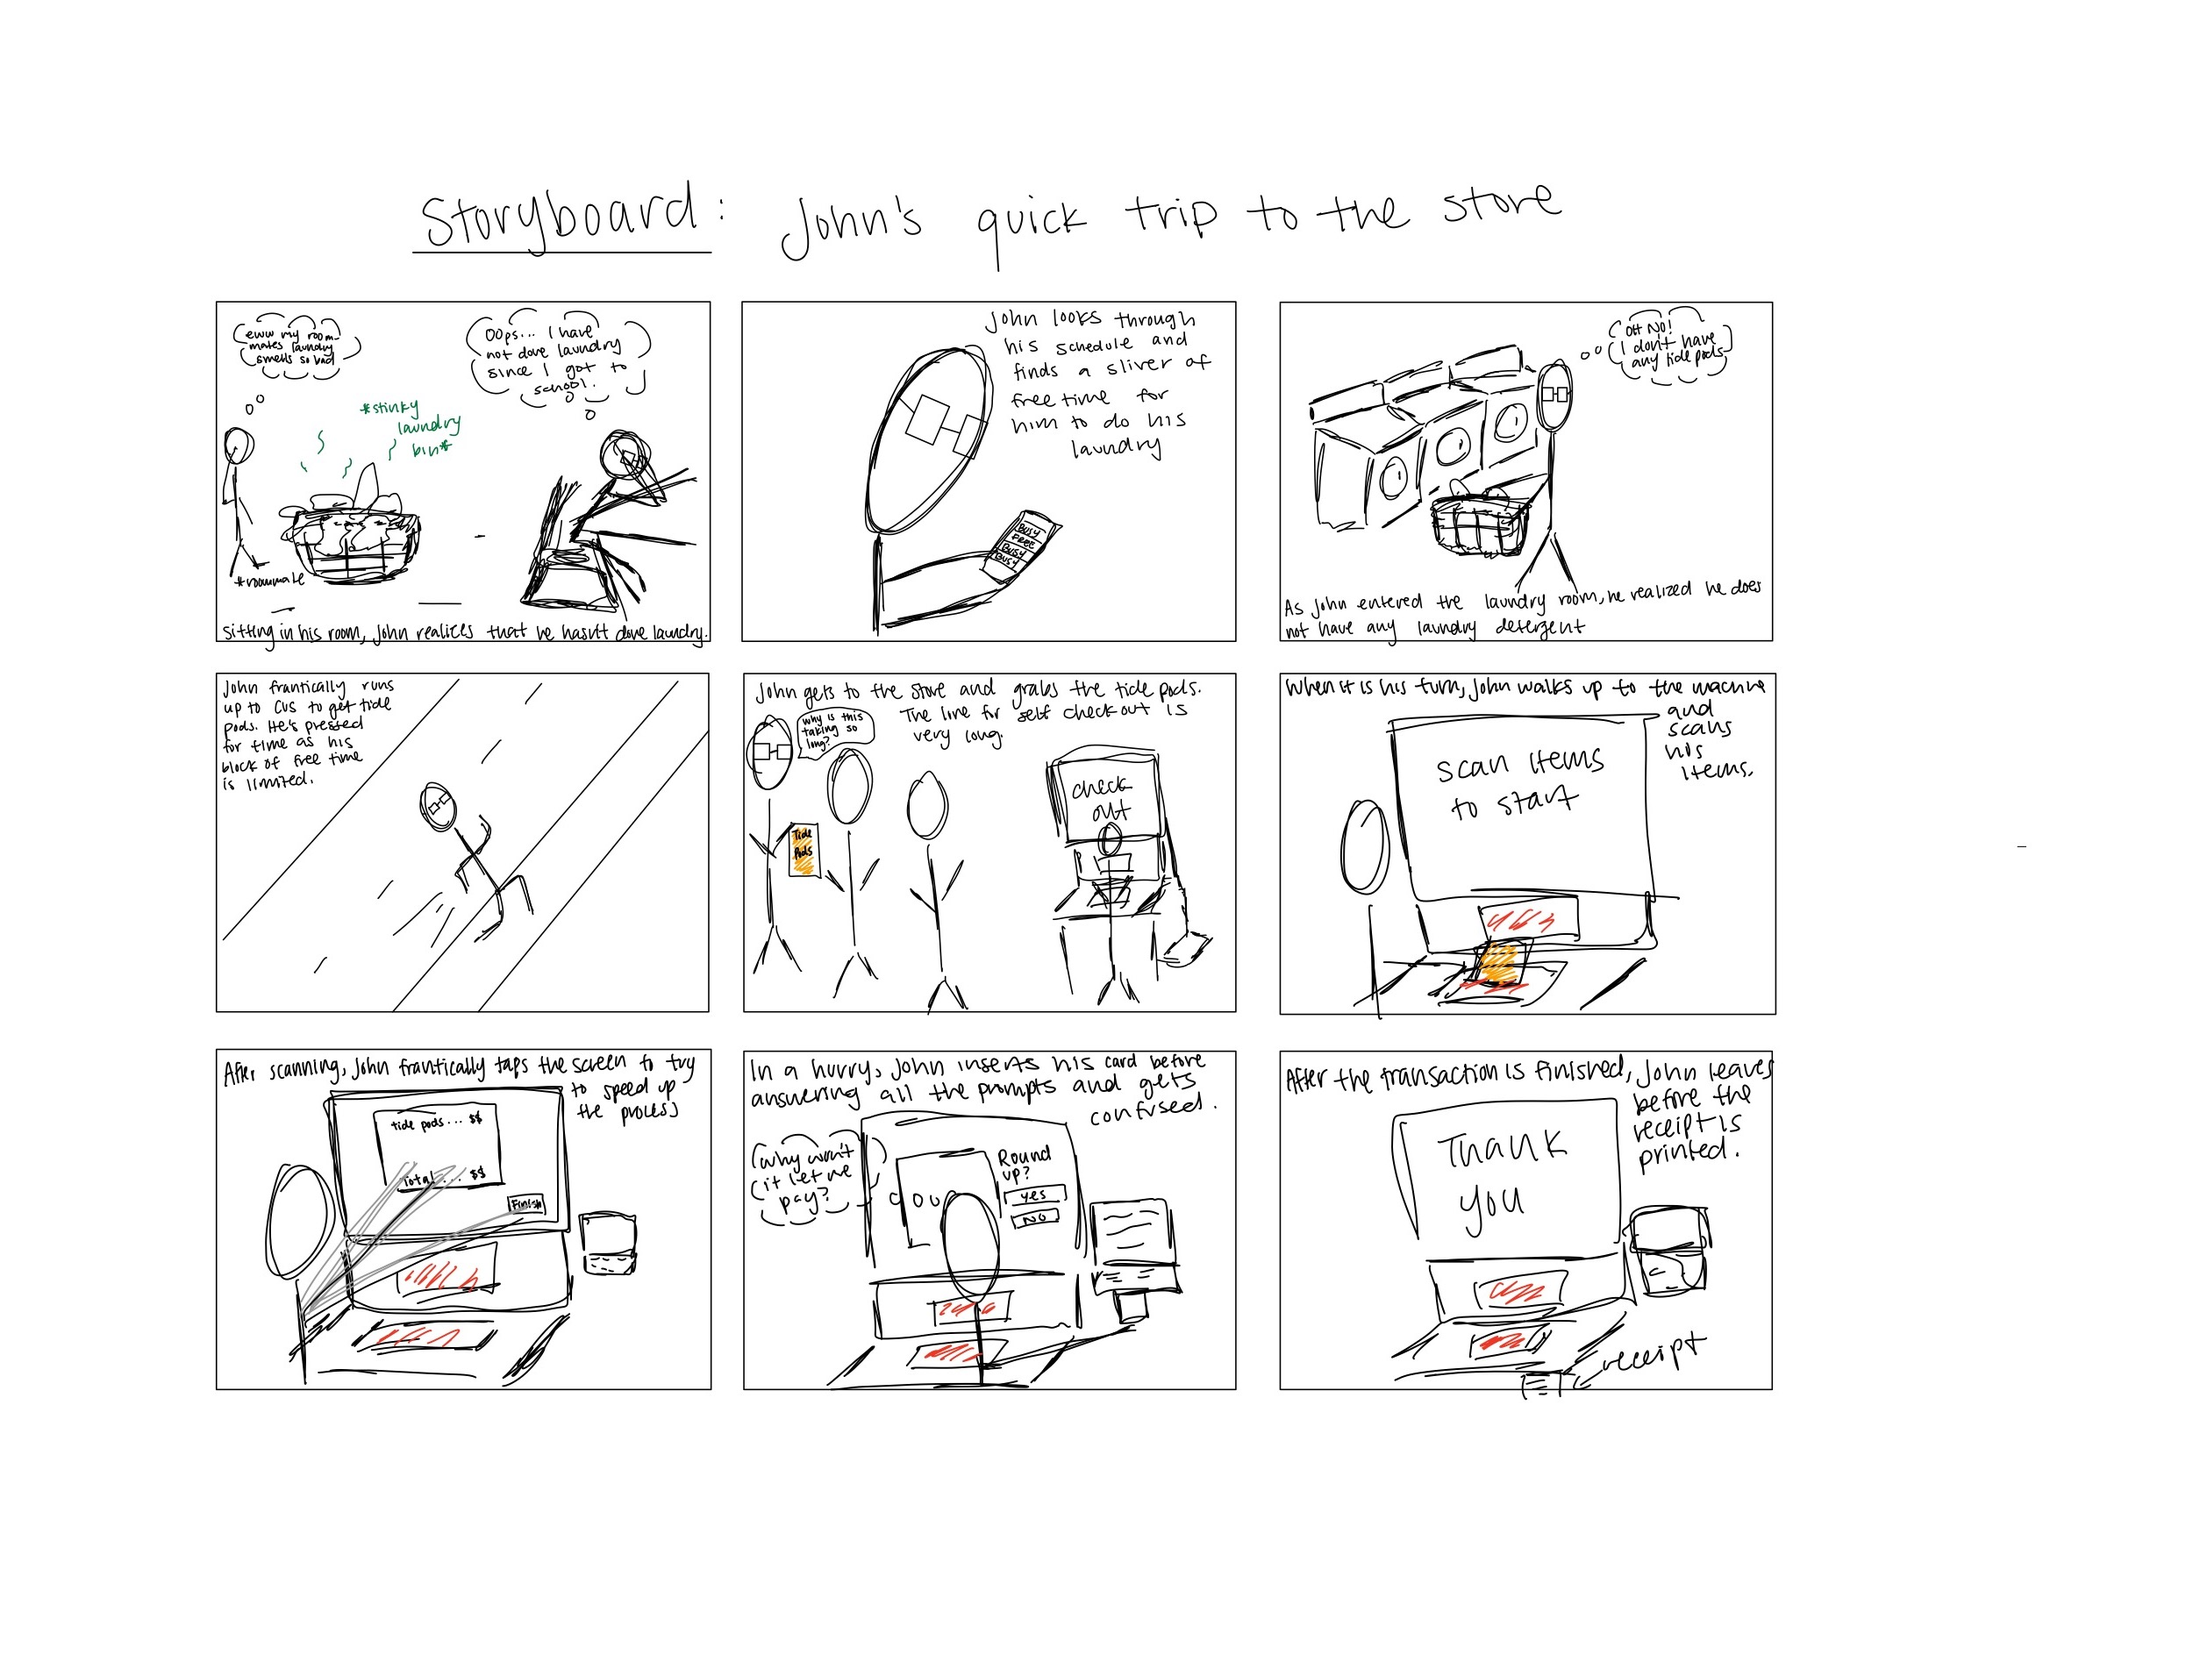
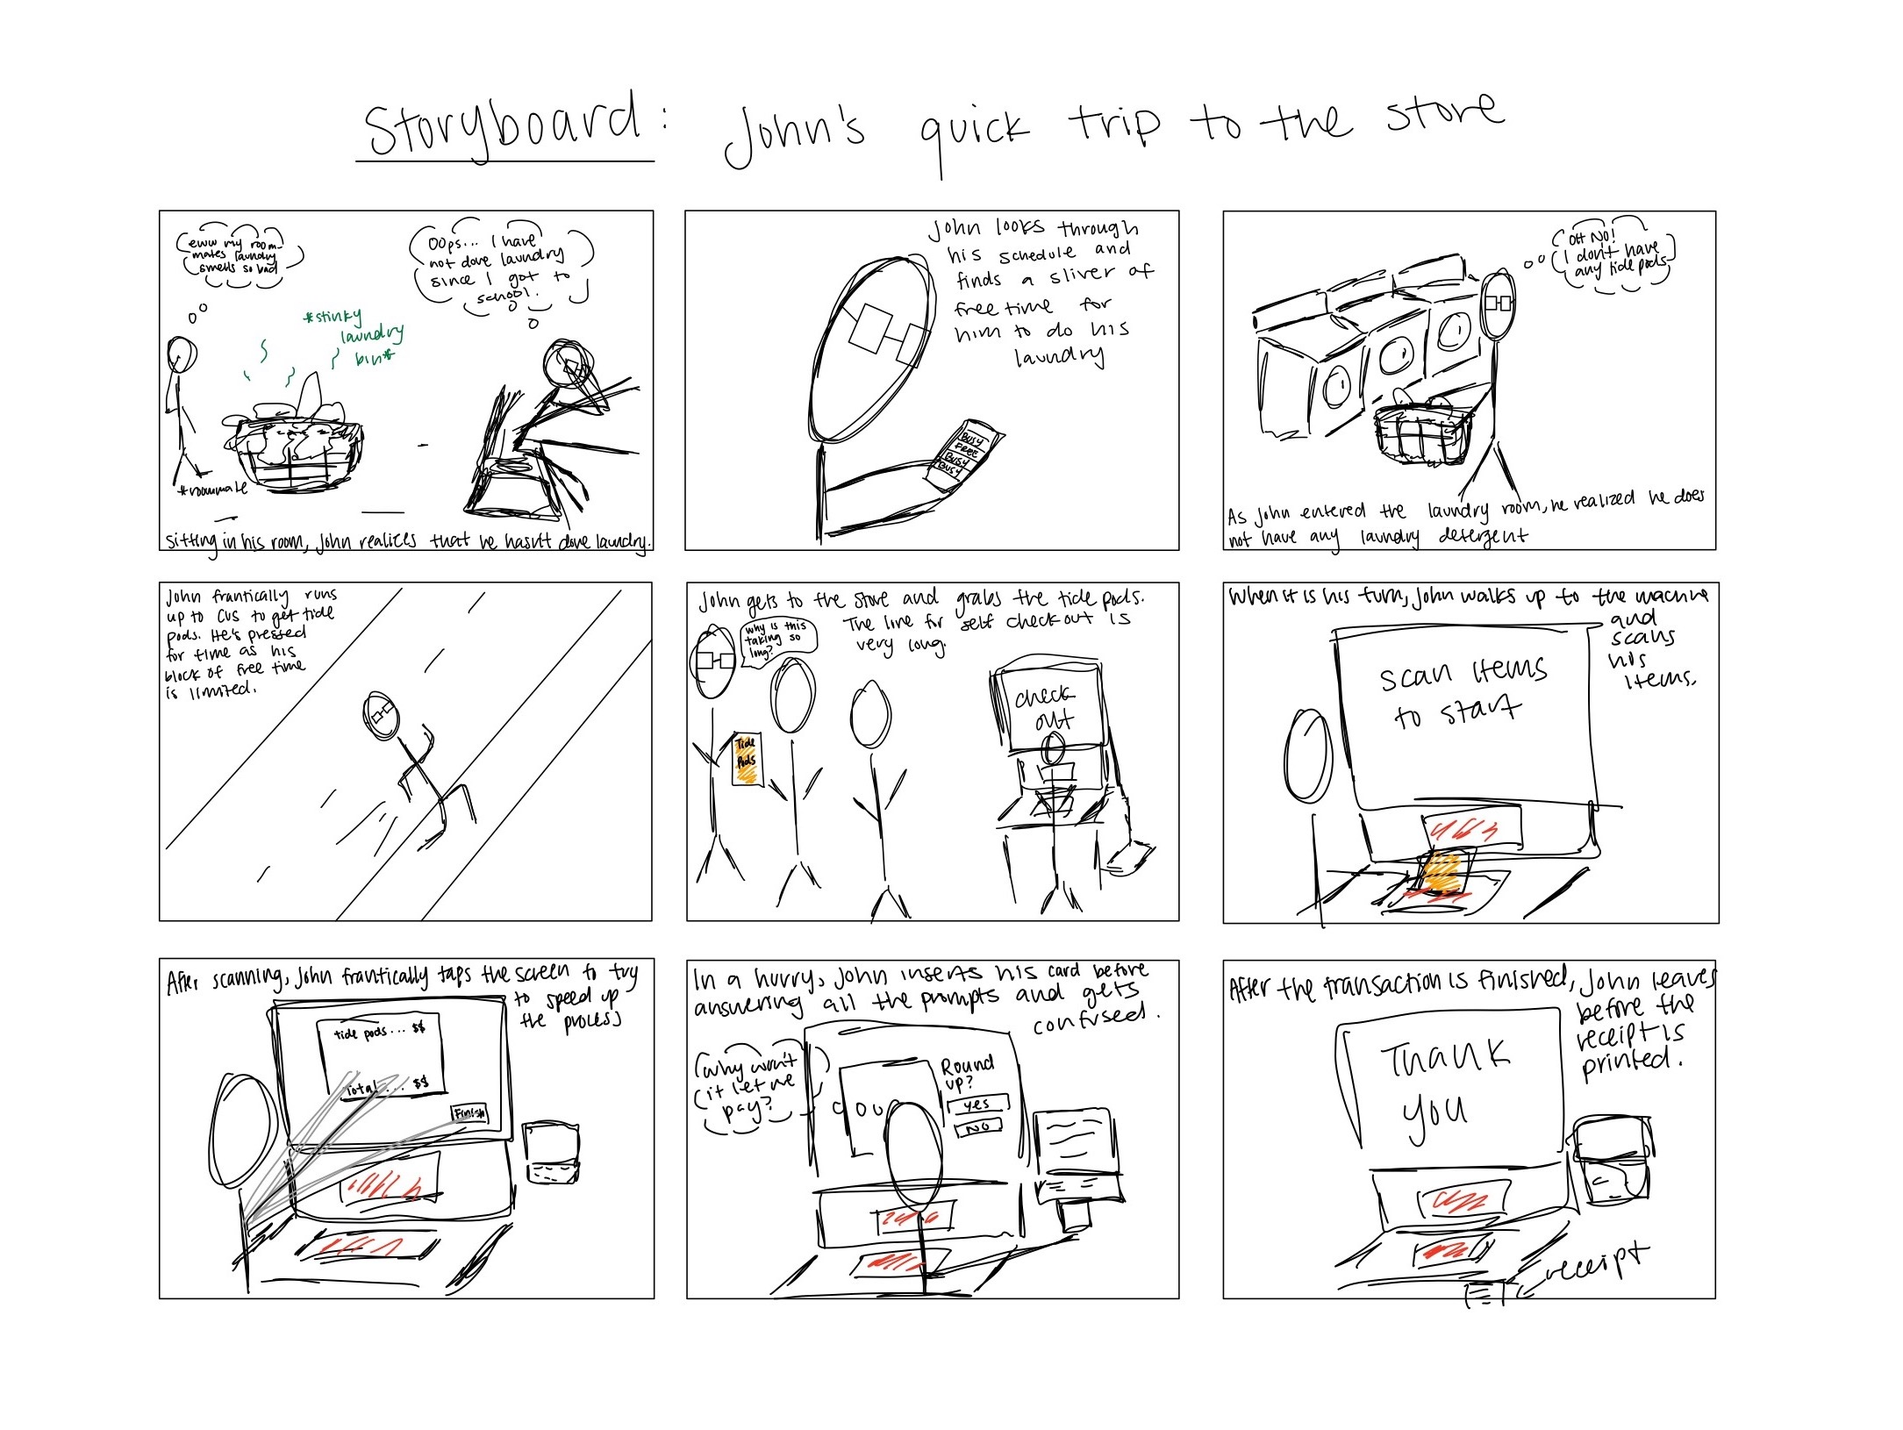
updates

diff --git a/assigntment1/index.html b/assigntment1/index.html
@@ -6,39 +6,79 @@
     <meta name="description" content="my assignment write up">
 </head>
     <body>
-        <h1>Creating Personas & Storyboardng with the CVS Self Checkout Interface</h1>
-        <h4>Background Information</h4>
-        <p>I was tasked with selecting an accessible interface in public view, and observng how real users interact with the interface. After getting a sense of user experience with the interace I then created personas based on users. From one of my personas I was able to create a storyboard illustrating the user's journey. </p>
-        <p>The interface that I chose was the self checkout machine at CVS, so I was able to examine CVS customers and their interactions with the self check out machines.  </p>
-        <h4>Interface Sketch</h4>
-        <img src="Page5.jpg" width=100%>
-        <h4>Summary of Observations:</h4>
+        <div class="heading1">
+        <h1><u>Creating Personas & Storyboardng</u> </h1>
+        </div>
+        <div class="heading2">
+        <h2><i>with the CVS Self Checkout Interface</i></h2>
+        </div>
+        <div class="first-row">
+            
+            <div class="small">
+                <div class="heading2">
+                <h4>Background Information</h4>
+            </div>
+                <p>I was tasked with selecting an accessible interface in public view, and observng how real users interact with the interface. After getting a sense of user experience with the interace I then created personas based on users. From one of my personas I was able to create a storyboard illustrating the user's journey. </p>
+                <p>The interface that I chose was the self checkout machine at CVS, so I was able to examine CVS customers and their interactions with the self check out machines.  </p>
+            </div>
+            <div class="big">
+                <div class="heading2">
+                <h4>Interface Sketch</h4></div>
+                <img src="Page5.jpg" alt="interface sketch" width=100%>
+             </div>
+            
+        </div>
+        <hr>
+        <div class="heading1">
+            <h4>Summary of Observations</h4>
+        </div>
         <p>Each user went through the self checkout process relatively quickly and smoothly. Oftentimes, a user would click for the next step before the machine was able to finish saying the previous instruction, and there were some instances of users putting their cards in the slot before the machine prompted them to. A few of the users paused before setting things down on the scale or didn’t put things on the scale at all, delaying the process. Overall it was a pretty seamless sequence of tapping on the screen and scanning new items. </p>
-        <h4>Interview Questions</h4>
-        <ol>
-            <li>How often do you use this self check out over regular checkout?
-            </li>
-            <li>When you are using the self checkout are there any challenges you have?</li>
-            <li>How would you describe your past and current current experience with self checkout? Has it gotten easier to use?</li>
-            <li>How do you normally shop and pay for groceries?</li>
-            <li>Is there anything you look for when using self checkout that is missing or hard to find?</li>
-            <li>Is there any way self checkout isn’t supporting your needs currently?</li>
-            <li>If you had a question when using the self checkout do you know who to contact?</li>
-            <li>What is your first reaction when you approach the self check out machine?</li>
-            <li>How long does it typically take you to checkout/grocery shop?</li>
-        </ol>
-        <h4>Interview Summary</h4>
-        <ul>
-            <li>Users choose self checkout when they have less things, when they have more things they go to the cashier</li>
-            <li>Some users would like to use cash when paying for items, and think that the lights around the side of the machine is a misleading color. The light is blue, but some suggest it should be green to show “validation”</li>
-            <li>Both users and cashiers believe that there should be more clear signage as to which side the scale is on</li>
-            <li>Users find it easy to get help as the lights above the self checkout inform workers that customer has run into an issue</li>
-            <li>Overall users report that the interace is relatively easy to use and self explanatory</li>
-        </ul>
+        <hr>
+        <div class="interview">
+            <div>
+                <div class="heading2">
+                <h4>Interview Questions</h4></div>
+                <ol >
+                    <li>How often do you use this self check out over regular checkout?
+                    </li>
+                    <li>When you are using the self checkout are there any challenges you have?</li>
+                    <li>How would you describe your past and current current experience with self checkout? Has it gotten easier to use?</li>
+                    <li>How do you normally shop and pay for groceries?</li>
+                    <li>Is there anything you look for when using self checkout that is missing or hard to find?</li>
+                    <li>Is there any way self checkout isn’t supporting your needs currently?</li>
+                    <li>If you had a question when using the self checkout do you know who to contact?</li>
+                    <li>What is your first reaction when you approach the self check out machine?</li>
+                    <li>How long does it typically take you to checkout/grocery shop?</li>
+                </ol>
+            </div>
+            <div class="int-summ">
+                <div class="heading2">
+                    <h4>Summary of Interviews</h4></div>
+                <ul>
+                    <li>Users choose self checkout when they have less things, when they have more things they go to the cashier</li>
+                    <li>Some users would like to use cash when paying for items, and think that the lights around the side of the machine is a misleading color. The light is blue, but some suggest it should be green to show “validation”</li>
+                    <li>Both users and cashiers believe that there should be more clear signage as to which side the scale is on</li>
+                    <li>Users find it easy to get help as the lights above the self checkout inform workers that customer has run into an issue</li>
+                    <li>Overall users report that the interace is relatively easy to use and self explanatory</li>
+                </ul>
+            </div>
+        </div>
+        <hr>
+        <div class="heading1">
         <h4>Personas</h4>
-        <img src="Page1.jpg" width=100%>
-        <img src="Page2.jpg" width=100%>
-        <h4>Storyboarding</h4>
+        </div>
+        <div class="personas">
+            <div>
+                <img src="Page1.jpg" width=100%>
+            </div>
+            <div>
+                <img src="Page2.jpg" width=100%>
+            </div>
+        </div>
+        <hr>
+        <div class="heading2">
+            <h4>Storyboarding</h4>
+        </div>
         <img src="story.jpg" width=100%>
     </body>
 </html>

diff --git a/assigntment1/index.css b/assigntment1/index.css
@@ -1,0 +1,34 @@
+body{
+    font-family:'Courier New', monospace;
+}
+.first-row{
+    display: flex;
+    justify-content: center;
+}
+.heading1{
+    display: flex;
+    justify-content: center;
+}
+.heading2{
+    display: flex;
+    justify-content: center;
+}
+.small{
+    max-width: 40%;
+}
+.int-summ{
+    max-width: 50%;
+}
+
+img{
+    vertical-align:middle;
+}
+.personas{
+    display: flex;
+    justify-content: center;
+}
+.interview{
+    display:flex;
+    justify-content: center;
+
+}
